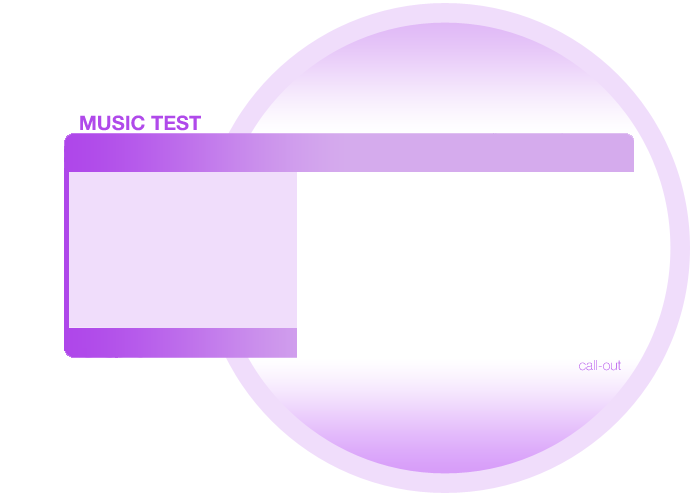
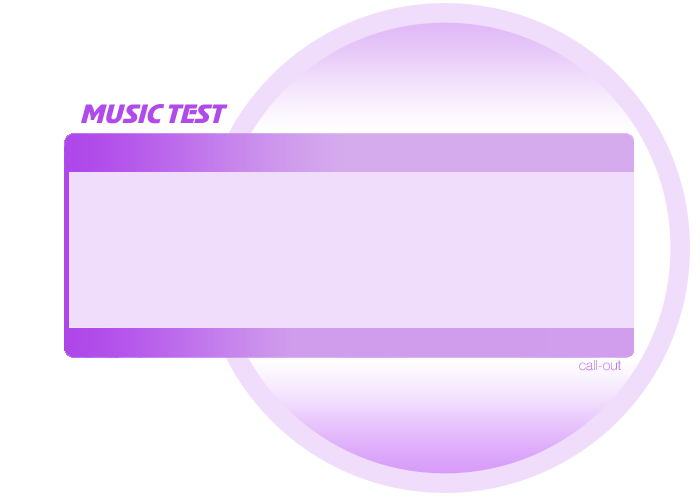
Добавление в фильтр поиск по миксам и по радиостанцыям

Changed region(s): [[0.42, 0.33, 0.93, 0.72], [0.12, 0.21, 0.33, 0.27]]

diff --git a/css/prettyPhoto.css b/css/prettyPhoto.css
@@ -102,65 +102,4 @@ div.facebook .pp_loaderIcon{background:url(../images/prettyPhoto/facebook/loader
 div.facebook .pp_arrow_previous{background:url(../images/prettyPhoto/facebook/sprite.png) 0 -71px no-repeat;height:22px;margin-top:0;width:22px}
 div.facebook .pp_arrow_previous.disabled{background-position:0 -96px;cursor:default}
 div.facebook .pp_arrow_next{background:url(../images/prettyPhoto/facebook/sprite.png) -32px -71px no-repeat;height:22px;margin-top:0;width:22px}
-div.facebook .pp_arrow_next.disabled{background-position:-32px -96px;cursor:default}
-div.facebook .pp_nav{margin-top:0}
-div.facebook .pp_nav p{font-size:15px;padding:0 3px 0 4px}
-div.facebook .pp_nav .pp_play{background:url(../images/prettyPhoto/facebook/sprite.png) -1px -123px no-repeat;height:22px;width:22px}
-div.facebook .pp_nav .pp_pause{background:url(../images/prettyPhoto/facebook/sprite.png) -32px -123px no-repeat;height:22px;width:22px}
-div.facebook .pp_next:hover{background:url(../images/prettyPhoto/facebook/btnNext.png) center right no-repeat;cursor:pointer}
-div.facebook .pp_previous:hover{background:url(../images/prettyPhoto/facebook/btnPrevious.png) center left no-repeat;cursor:pointer}
-div.facebook .pp_bottom .pp_left{background:url(../images/prettyPhoto/facebook/sprite.png) -88px -80px no-repeat}
-div.facebook .pp_bottom .pp_middle{background:url(../images/prettyPhoto/facebook/contentPatternBottom.png) top left repeat-x}
-div.facebook .pp_bottom .pp_right{background:url(../images/prettyPhoto/facebook/sprite.png) -110px -80px no-repeat}
-div.pp_pic_holder a:focus{outline:none}
-div.pp_overlay{background:#000;display:none;left:0;position:absolute;top:0;width:100%;z-index:9500}
-div.pp_pic_holder{display:none;position:absolute;width:100px;z-index:10000}
-.pp_content{height:40px;min-width:40px}
-* html .pp_content{width:40px}
-.pp_content_container{position:relative;text-align:left;width:100%}
-.pp_content_container .pp_left{padding-left:20px}
-.pp_content_container .pp_right{padding-right:20px}
-.pp_content_container .pp_details{float:left;margin:10px 0 2px}
-.pp_description{display:none;margin:0 0 5px}
-.pp_nav{clear:right;float:left;margin:3px 10px 0 0}
-.pp_nav p{float:left;margin:2px 4px}
-.pp_nav .pp_play,.pp_nav .pp_pause{float:left;margin-right:4px;text-indent:-10000px}
-a.pp_arrow_previous,a.pp_arrow_next{display:block;float:left;height:15px;margin-top:3px;overflow:hidden;text-indent:-10000px;width:14px}
-.pp_hoverContainer{position:absolute;top:0;width:100%;z-index:2000}
-.pp_gallery{display:none;left:50%;margin-top:-50px;position:absolute;z-index:10000}
-.pp_gallery div{float:left;overflow:hidden}
-.pp_gallery ul{float:left;height:35px;position:relative;white-space:nowrap;margin:0 0 0 5px;padding:0}
-.pp_gallery ul a{border:1px rgba(0,0,0,0.5) solid;display:block;float:left;height:33px;overflow:hidden}
-.pp_gallery ul a img{border:0}
-.pp_gallery li{display:block;float:left;margin:0 5px 0 0;padding:0}
-.pp_gallery li.default a{background:url(../images/prettyPhoto/facebook/default_thumbnail.gif) 0 0 no-repeat;display:block;height:33px;width:50px}
-.pp_gallery .pp_arrow_previous,.pp_gallery .pp_arrow_next{margin-top:7px!important}
-a.pp_next{background:url(../images/prettyPhoto/light_rounded/btnNext.png) 10000px 10000px no-repeat;display:block;float:right;height:100%;text-indent:-10000px;width:49%}
-a.pp_previous{background:url(../images/prettyPhoto/light_rounded/btnNext.png) 10000px 10000px no-repeat;display:block;float:left;height:100%;text-indent:-10000px;width:49%}
-a.pp_expand,a.pp_contract{cursor:pointer;display:none;height:20px;position:absolute;right:30px;text-indent:-10000px;top:10px;width:20px;z-index:20000}
-a.pp_close{position:absolute;right:0;top:0;display:block;line-height:22px;text-indent:-10000px}
-.pp_loaderIcon{display:block;height:24px;left:50%;position:absolute;top:50%;width:24px;margin:-12px 0 0 -12px}
-#pp_full_res{line-height:1!important}
-#pp_full_res .pp_inline{text-align:left}
-#pp_full_res .pp_inline p{margin:0 0 15px}
-div.ppt{color:#fff;display:none;font-size:17px;z-index:9999;margin:0 0 5px 15px}
-div.pp_default .pp_content,div.light_rounded .pp_content{background-color:#fff}
-div.pp_default #pp_full_res .pp_inline,div.light_rounded .pp_content .ppt,div.light_rounded #pp_full_res .pp_inline,div.light_square .pp_content .ppt,div.light_square #pp_full_res .pp_inline,div.facebook .pp_content .ppt,div.facebook #pp_full_res .pp_inline{color:#000}
-div.pp_default .pp_gallery ul li a:hover,div.pp_default .pp_gallery ul li.selected a,.pp_gallery ul a:hover,.pp_gallery li.selected a{border-color:#fff}
-div.pp_default .pp_details,div.light_rounded .pp_details,div.dark_rounded .pp_details,div.dark_square .pp_details,div.light_square .pp_details,div.facebook .pp_details{position:relative}
-div.light_rounded .pp_top .pp_middle,div.light_rounded .pp_content_container .pp_left,div.light_rounded .pp_content_container .pp_right,div.light_rounded .pp_bottom .pp_middle,div.light_square .pp_left,div.light_square .pp_middle,div.light_square .pp_right,div.light_square .pp_content,div.facebook .pp_content{background:#fff}
-div.light_rounded .pp_description,div.light_square .pp_description{margin-right:85px}
-div.light_rounded .pp_gallery a.pp_arrow_previous,div.light_rounded .pp_gallery a.pp_arrow_next,div.dark_rounded .pp_gallery a.pp_arrow_previous,div.dark_rounded .pp_gallery a.pp_arrow_next,div.dark_square .pp_gallery a.pp_arrow_previous,div.dark_square .pp_gallery a.pp_arrow_next,div.light_square .pp_gallery a.pp_arrow_previous,div.light_square .pp_gallery a.pp_arrow_next{margin-top:12px!important}
-div.light_rounded .pp_arrow_previous.disabled,div.dark_rounded .pp_arrow_previous.disabled,div.dark_square .pp_arrow_previous.disabled,div.light_square .pp_arrow_previous.disabled{background-position:0 -87px;cursor:default}
-div.light_rounded .pp_arrow_next.disabled,div.dark_rounded .pp_arrow_next.disabled,div.dark_square .pp_arrow_next.disabled,div.light_square .pp_arrow_next.disabled{background-position:-22px -87px;cursor:default}
-div.light_rounded .pp_loaderIcon,div.light_square .pp_loaderIcon{background:url(../images/prettyPhoto/light_rounded/loader.gif) center center no-repeat}
-div.dark_rounded .pp_top .pp_middle,div.dark_rounded .pp_content,div.dark_rounded .pp_bottom .pp_middle{background:url(../images/prettyPhoto/dark_rounded/contentPattern.png) top left repeat}
-div.dark_rounded .currentTextHolder,div.dark_square .currentTextHolder{color:#c4c4c4}
-div.dark_rounded #pp_full_res .pp_inline,div.dark_square #pp_full_res .pp_inline{color:#fff}
-.pp_top,.pp_bottom{height:20px;position:relative}
-* html .pp_top,* html .pp_bottom{padding:0 20px}
-.pp_top .pp_left,.pp_bottom .pp_left{height:20px;left:0;position:absolute;width:20px}
-.pp_top .pp_middle,.pp_bottom .pp_middle{height:20px;left:20px;position:absolute;right:20px}
-* html .pp_top .pp_middle,* html .pp_bottom .pp_middle{left:0;position:static}
-.pp_top .pp_right,.pp_bottom .pp_right{height:20px;left:auto;position:absolute;right:0;top:0;width:20px}
-.pp_fade,.pp_gallery li.default a img{display:none}
+div.facebook .pp

diff --git a/css/form.css b/css/form.css
@@ -54,13 +54,13 @@ div.form fieldset
     -moz-border-radius:7px;
 }
 
-/*div.form label
+div.form label
 {
 	font-weight: bold;
 	font-size: 0.9em;
 	display: block;
 }
-*/
+
 div.form .row
 {
 	margin: 5px 0;
@@ -144,7 +144,7 @@ div.form .errorSummary ul
 	padding: 0 0 0 20px;
 }
 
-/*div.wide.form label
+div.wide.form label
 {
 	float: left;
 	margin-right: 10px;
@@ -152,7 +152,7 @@ div.form .errorSummary ul
 	text-align: right;
 	width: 100px;
 }
-*/
+
 div.wide.form .row
 {
 	clear: left;

diff --git a/css/screen.css b/css/screen.css
@@ -236,8 +236,13 @@ hr.space {background:#fff;color:#fff;visibility:hidden;}
 .clearfix:after, .container:after {content:"\0020";display:block;height:0;clear:both;visibility:hidden;overflow:hidden;}
 .clearfix, .container {display:block;}
 .clear {clear:both;}
-.statistic div, span{
+#statistic span{
  font-weight:bold;
  font-size:18px
 }
-
+#filter p{
+ margin-top: 15px;
+ margin-bottom: 2px;
+ font-weight:bold;
+ font-size:18px
+}

diff --git a/css/player.js b/css/player.js
@@ -34,4 +34,3 @@ $(document).ready(function() {
       $(".row2").css("display","block");
   })
 });
-

diff --git a/protected/modules/radio/views/test/_search.php b/protected/modules/radio/views/test/_search.php
@@ -4,7 +4,7 @@
 /* @var $form CActiveForm */
 ?>
 
-<div class="wide form">
+<div id="filter">
 
 <?php $form=$this->beginWidget('CActiveForm', array(
 	'action'=>Yii::app()->createUrl($this->route),
@@ -13,50 +13,60 @@
 )); ?>
 <div class="chek">
 	<div class="sex">
-		<?php echo $form->labelEx($model,'sex'); ?>
-		</br>
+		<p>
+		<?php echo $form->labelEx($model,'sex'); ?></p>
 		<?php echo $form->checkBoxList($model,'sex',array(1=>Yii::t('radio', 'Man'),2=>Yii::t('radio', 'Woman')));?>
 		<?php echo $form->error($model,'sex'); ?>
 	</div>
 </div>
 	<div class="row">
-		<?php echo $form->labelEx($model,'age_from'); ?>
-		<br>
+		<p><?php echo $form->labelEx($model,'age_from'); ?></p>
+		from
 		<?php echo $form->textField($model,'age_from'); ?>
 		<?php echo $form->error($model,'age_from'); ?>
-
+		to
 		<?php echo $form->textField($model,'after_age'); ?>
 		<?php echo $form->error($model,'after_age'); ?>
 	</div>
 	<table>
 		<tr>
-			<td>
-				<?php echo $form->labelEx($model,'region'); ?>
-				<br>
-				<?php echo $form->checkBoxList($model,'region',TestSettings::getregion($model->idTest->id_radiostation),array( 'separator'=>'</br></br>')); ?>
+			<td style=" vertical-align: top; ">
+				<p><?php echo $form->labelEx($model,'region'); ?></p>
+
+				<?php echo $form->checkBoxList($model,'region',TestSettings::getregion($model->idTest->id_radiostation)); ?>
 				<?php echo $form->error($model,'region'); ?>
 			</td>
-			<td>
-				<?php echo $form->labelEx($model,'id_education'); ?>
-				</br>
-				<?php echo $form->checkBoxList($model,'id_education',EducationMult::all(),array( 'separator'=>'</br></br>')); ?>
+			<td style=" vertical-align: top; ">
+				<p><?php echo $form->labelEx($model,'id_education'); ?></p>
+
+				<?php echo $form->checkBoxList($model,'id_education',EducationMult::all()); ?>
 				<?php echo $form->error($model,'id_education'); ?>
 			</td>
 		</tr>
 		<tr>
 			<td>
-
-				<?php echo $form->labelEx($model,'P1'); ?>
-				</br>
-
-				<?php echo $form->checkBoxList($model,'P1',RadiostationSettings::getradiostation($model->idTest->id_radiostation),array( 'separator'=>'</br></br>')); ?>
-				<?php echo $form->error($model,'P1'); ?>
+				<?php echo $form->checkBox($model,'P1P2'); ?>
+				<?php  echo $form->labelEx($model,'P1P2'); ?>
 
 			</td>
 			<td>
-				<?php echo $form->labelEx($model,'P2'); ?>
-				</br>
-				<?php echo $form->checkBoxList($model,'P2',RadiostationSettings::getradiostation($model->idTest->id_radiostation),array( 'separator'=>'</br></br>')); ?>
+				<?php echo $form->checkBox($model,'mix'); ?>
+				<?php  echo $form->labelEx($model,'mix'); ?>
+			</td>
+		</tr>
+		<tr>
+			<td style=" vertical-align: top; ">
+
+				<p><?php echo $form->labelEx($model,'P1'); ?></p>
+
+
+				<?php echo $form->checkBoxList($model,'P1',RadiostationSettings::getradiostation($model->idTest->id_radiostation)); ?>
+				<?php echo $form->error($model,'P1'); ?>
+
+			</td>
+			<td style=" vertical-align: top; ">
+				<p><?php echo $form->labelEx($model,'P2'); ?></p>
+				<?php echo $form->checkBoxList($model,'P2',RadiostationSettings::getradiostation($model->idTest->id_radiostation)); ?>
 				<?php echo $form->error($model,'P2'); ?>
 			</td>
 		</tr>

diff --git a/protected/models/MusicTestDetail.php b/protected/models/MusicTestDetail.php
@@ -72,6 +72,8 @@ class MusicTestDetail extends CActiveRecord
 	public $neverP1;
 	public $neverP2;
 	public $region;
+	public $P1P2;
+	public $mix;
 
 
 	/**
@@ -94,7 +96,7 @@ class MusicTestDetail extends CActiveRecord
 			array('id_test, id_user, id_song, id_like, never', 'numerical', 'integerOnly'=>true),
 			// The following rule is used by search().
 			// @todo Please remove those attributes that should not be searched.
-			array('id_test_det, id_test, id_user, date_last, finaly, id_song, id_like, sex, age_from, after_age, id_education,P1,P2', 'safe', 'on'=>'search'),
+			array('id_test_det, id_test, id_user, date_last, finaly, id_song, id_like, sex, age_from, after_age, id_education,P1,P2,P1P1,mix', 'safe', 'on'=>'search'),
 		);
 	}
 
@@ -110,6 +112,8 @@ class MusicTestDetail extends CActiveRecord
 			'idUser' => array(self::BELONGS_TO, 'Users', 'id_user'),
 			'idSong' => array(self::BELONGS_TO, 'Songs', 'id_song'),
 			'idLike' => array(self::BELONGS_TO, 'SongLikesMult', 'id_like'),
+
+
 		);
 	}
 
@@ -126,6 +130,8 @@ class MusicTestDetail extends CActiveRecord
 			'finaly' => 'Finaly',
 			'id_song' => 'Id Song',
 			'id_like' => 'Id Like',
+			'P1P2'=>Yii::t('radio','View respondents which choose your radiostation P1 or P2'),
+			'mix'=>Yii::t('radio','Right mix-maker'),
 		);
 	}
 
@@ -158,6 +164,12 @@ class MusicTestDetail extends CActiveRecord
 		$criteria->addInCondition('idUser.P2',$this->P2);
 		$criteria->addInCondition('idUser.sex',$this->sex);
 		$criteria->addInCondition('idUser.region',$this->region);
+		if($this->P1P2){
+			$criteria->condition("idUser.P1= {$this->idTest->id_radiostation} or idUser.P2= {$this->idTest->id_radiostation}");
+		}
+		if($this->mix){
+			$criteria->compare('idUser.marker','+');
+		}
 		$criteria->select = "`t`.*, COUNT(*) as Coun,
 		COUNT(CASE WHEN never=5 THEN 1 ELSE NULL END) as never,
 		COUNT(CASE WHEN id_like=5 THEN 1 ELSE NULL END) as Coun5,
